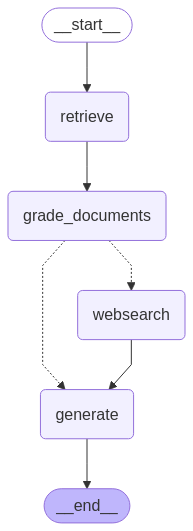
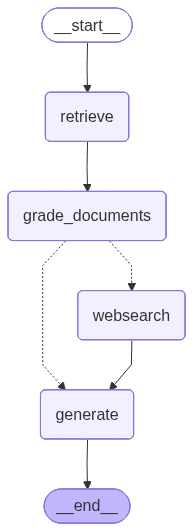
Added comments; recreated graph.png from running the code; defined clean input for main-run.

diff --git a/main.py b/main.py
@@ -9,7 +9,18 @@ from dotenv import load_dotenv
 load_dotenv()
 
 from graph.graph import app
+from graph.state import GraphState
 
 if __name__ == "__main__":
     print("Hello Advanced RAG")
-    print(app.invoke(input={"question": "what is agent memory?"}))
+    # folgender invoke funktioniert, ist aber von der typisierung unsauber; pylance warning
+    # > print(app.invoke(input={"question": "what is agent memory?"}))
+
+    # eigener Ansatz
+    question = "what is agent memory?"
+    # so erzeugt man TypedDict-Klassen-Objekte richtig
+    inputState: GraphState = {"question":question,"generation":"","web_search":False,"documents":[]}
+    # so ist es falsch
+    # > inputState = GraphState("question":question,"generation":"","web_search":False,"documents":[])
+    print(app.invoke(input=inputState))
+    

diff --git a/graph/graph.py b/graph/graph.py
@@ -14,7 +14,7 @@ def decide_to_generate(state):
 
     if state["web_search"]:
         print(
-            "---DECISION: NOT ALL DOCUMENTS ARE NOT RELEVANT TO QUESTION, INCLUDE WEB SEARCH---"
+            "---DECISION: NOT ALL DOCUMENTS ARE RELEVANT TO QUESTION, INCLUDE WEB SEARCH---"
         )
         return WEBSEARCH
     else:
@@ -24,6 +24,8 @@ def decide_to_generate(state):
 
 workflow = StateGraph(GraphState)
 
+# add_node assigns a function (2nd argument) to a node-name (1st argument)
+# > here instead of node-name-strings, ENUM are used which are defined in consts.py
 workflow.add_node(RETRIEVE, retrieve)
 workflow.add_node(GRADE_DOCUMENTS, grade_documents)
 workflow.add_node(GENERATE, generate)

diff --git a/graph/nodes/__init__.py b/graph/nodes/__init__.py
@@ -3,4 +3,5 @@ from graph.nodes.grade_documents import grade_documents
 from graph.nodes.retrieve import retrieve
 from graph.nodes.web_search import web_search
 
+# these lines make "generate", "grade_documents", "retrieve" and "web_search" accessible from outside
 __all__ = ["generate", "grade_documents", "retrieve", "web_search"]

diff --git a/graph/consts.py b/graph/consts.py
@@ -1,4 +1,5 @@
 RETRIEVE = "retrieve"
 GRADE_DOCUMENTS = "grade_documents"
 GENERATE = "generate"
-WEBSEARCH = "websearch"
+# this is not the name of the function! "websearch" it's just a name for the state; the function is called web_search
+WEBSEARCH = "websearch" 
